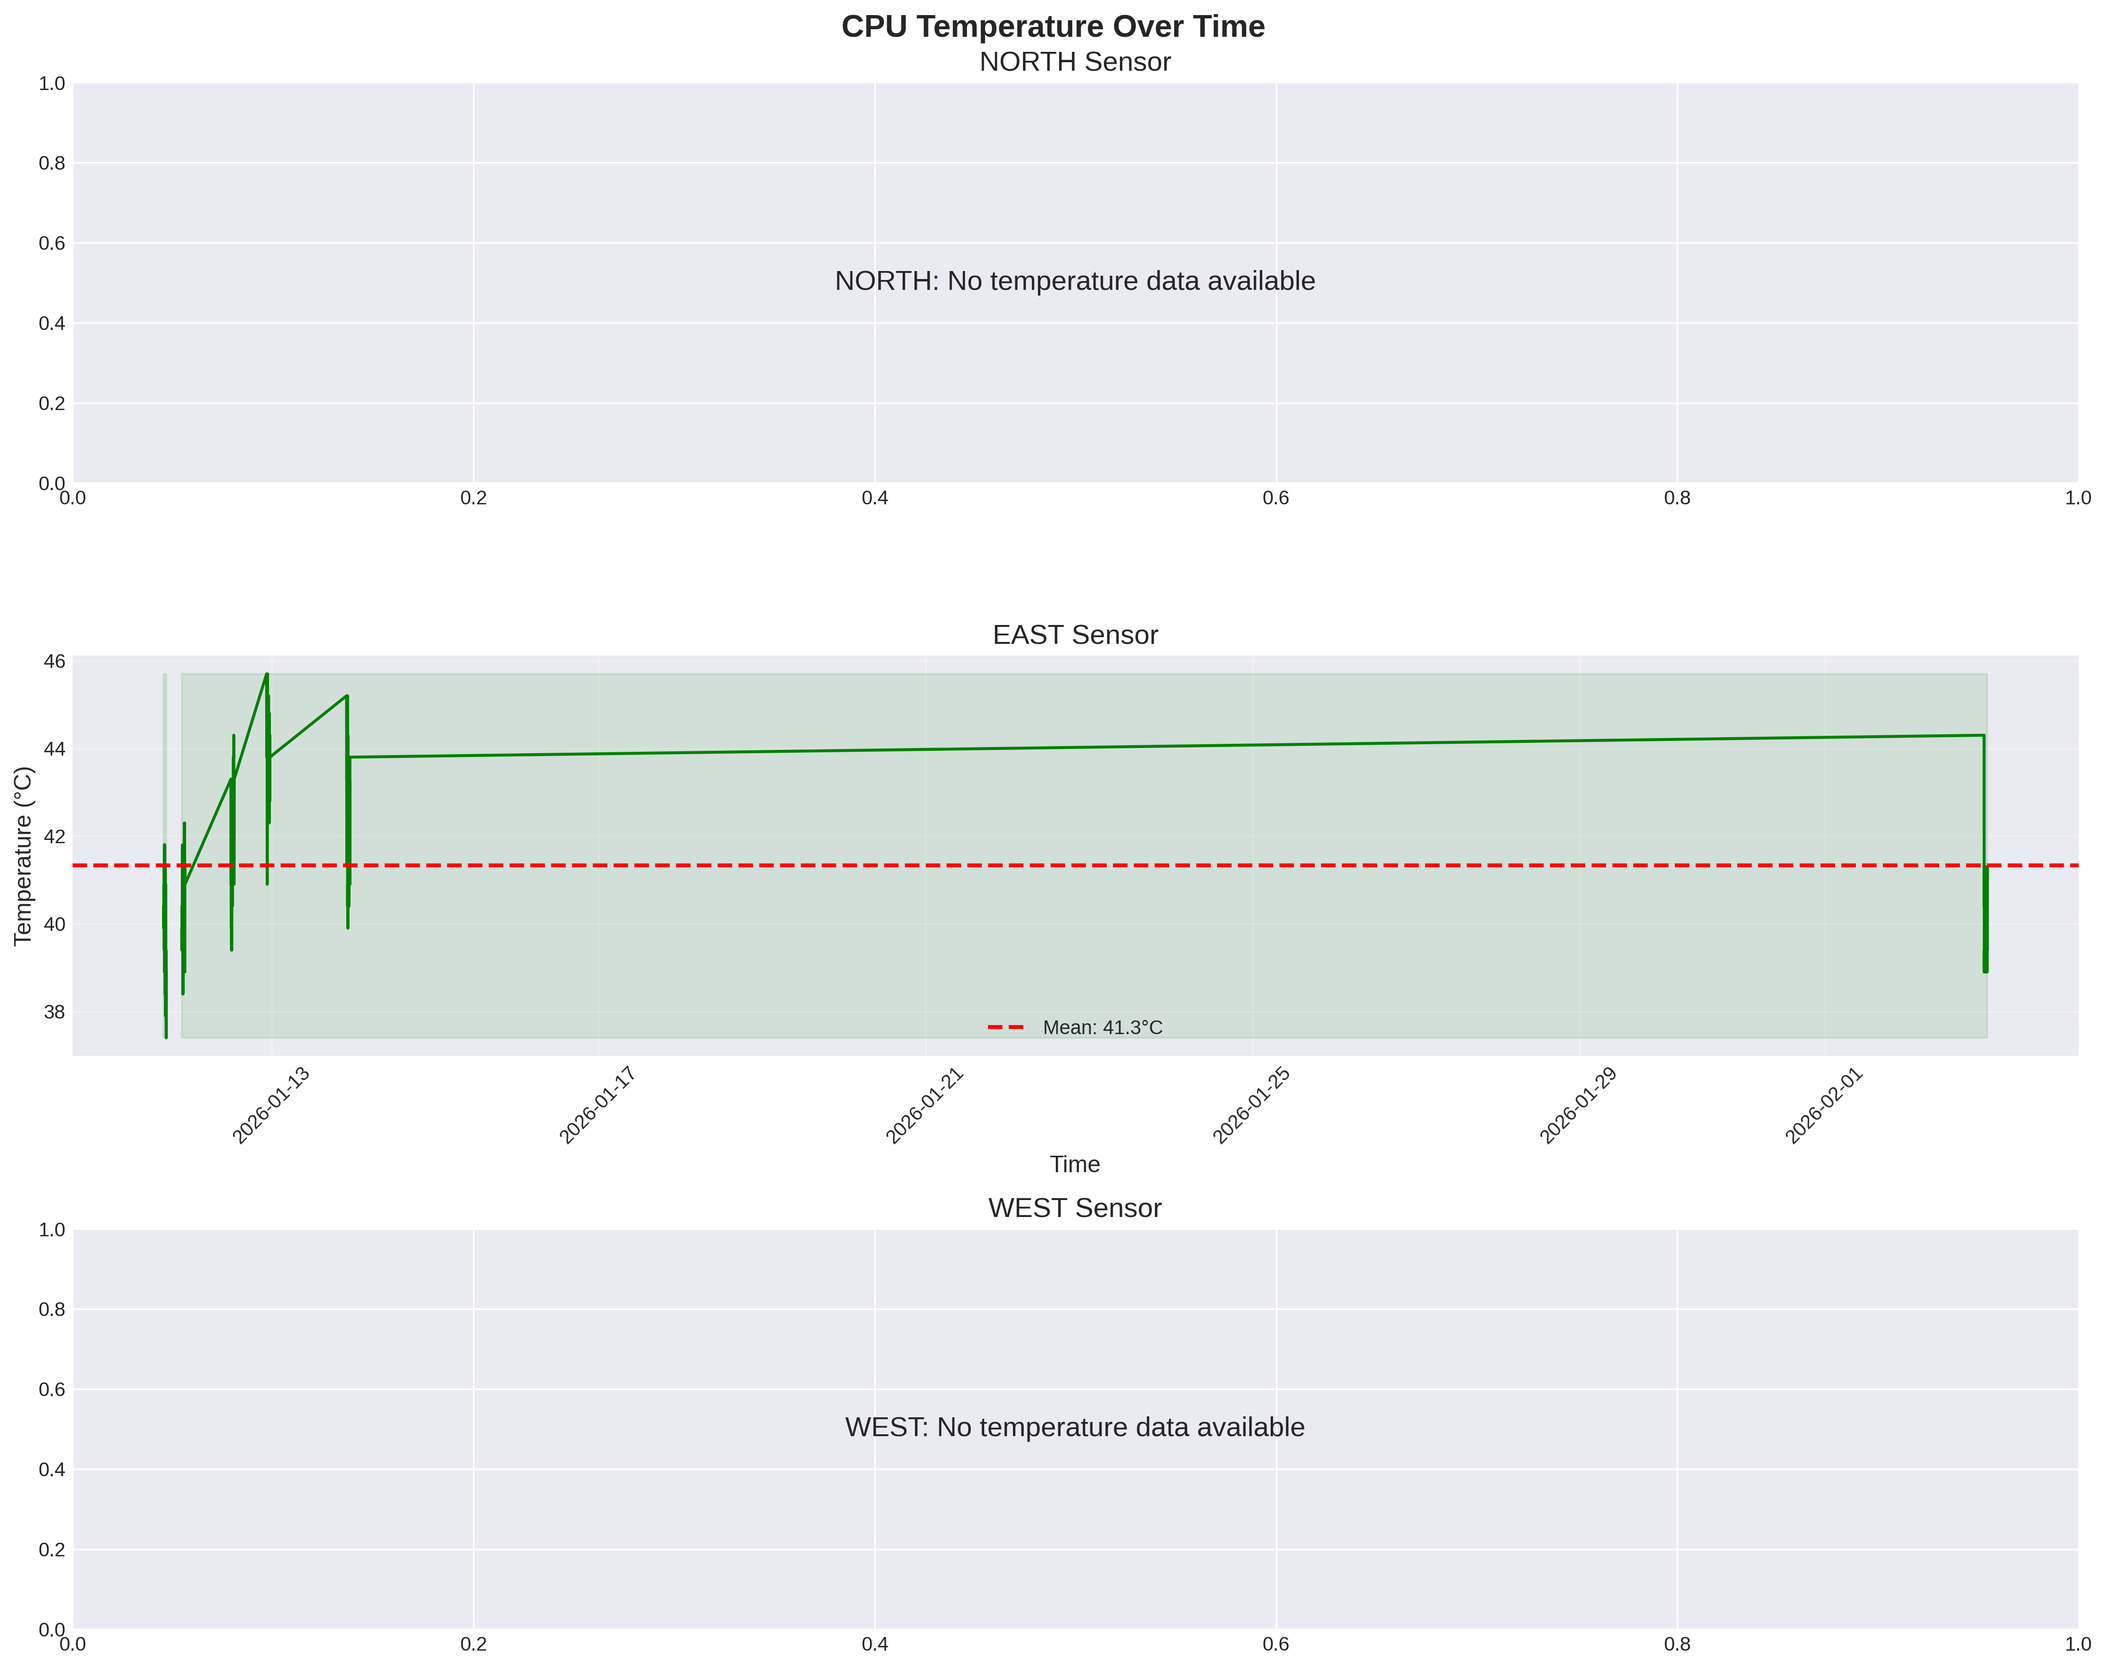
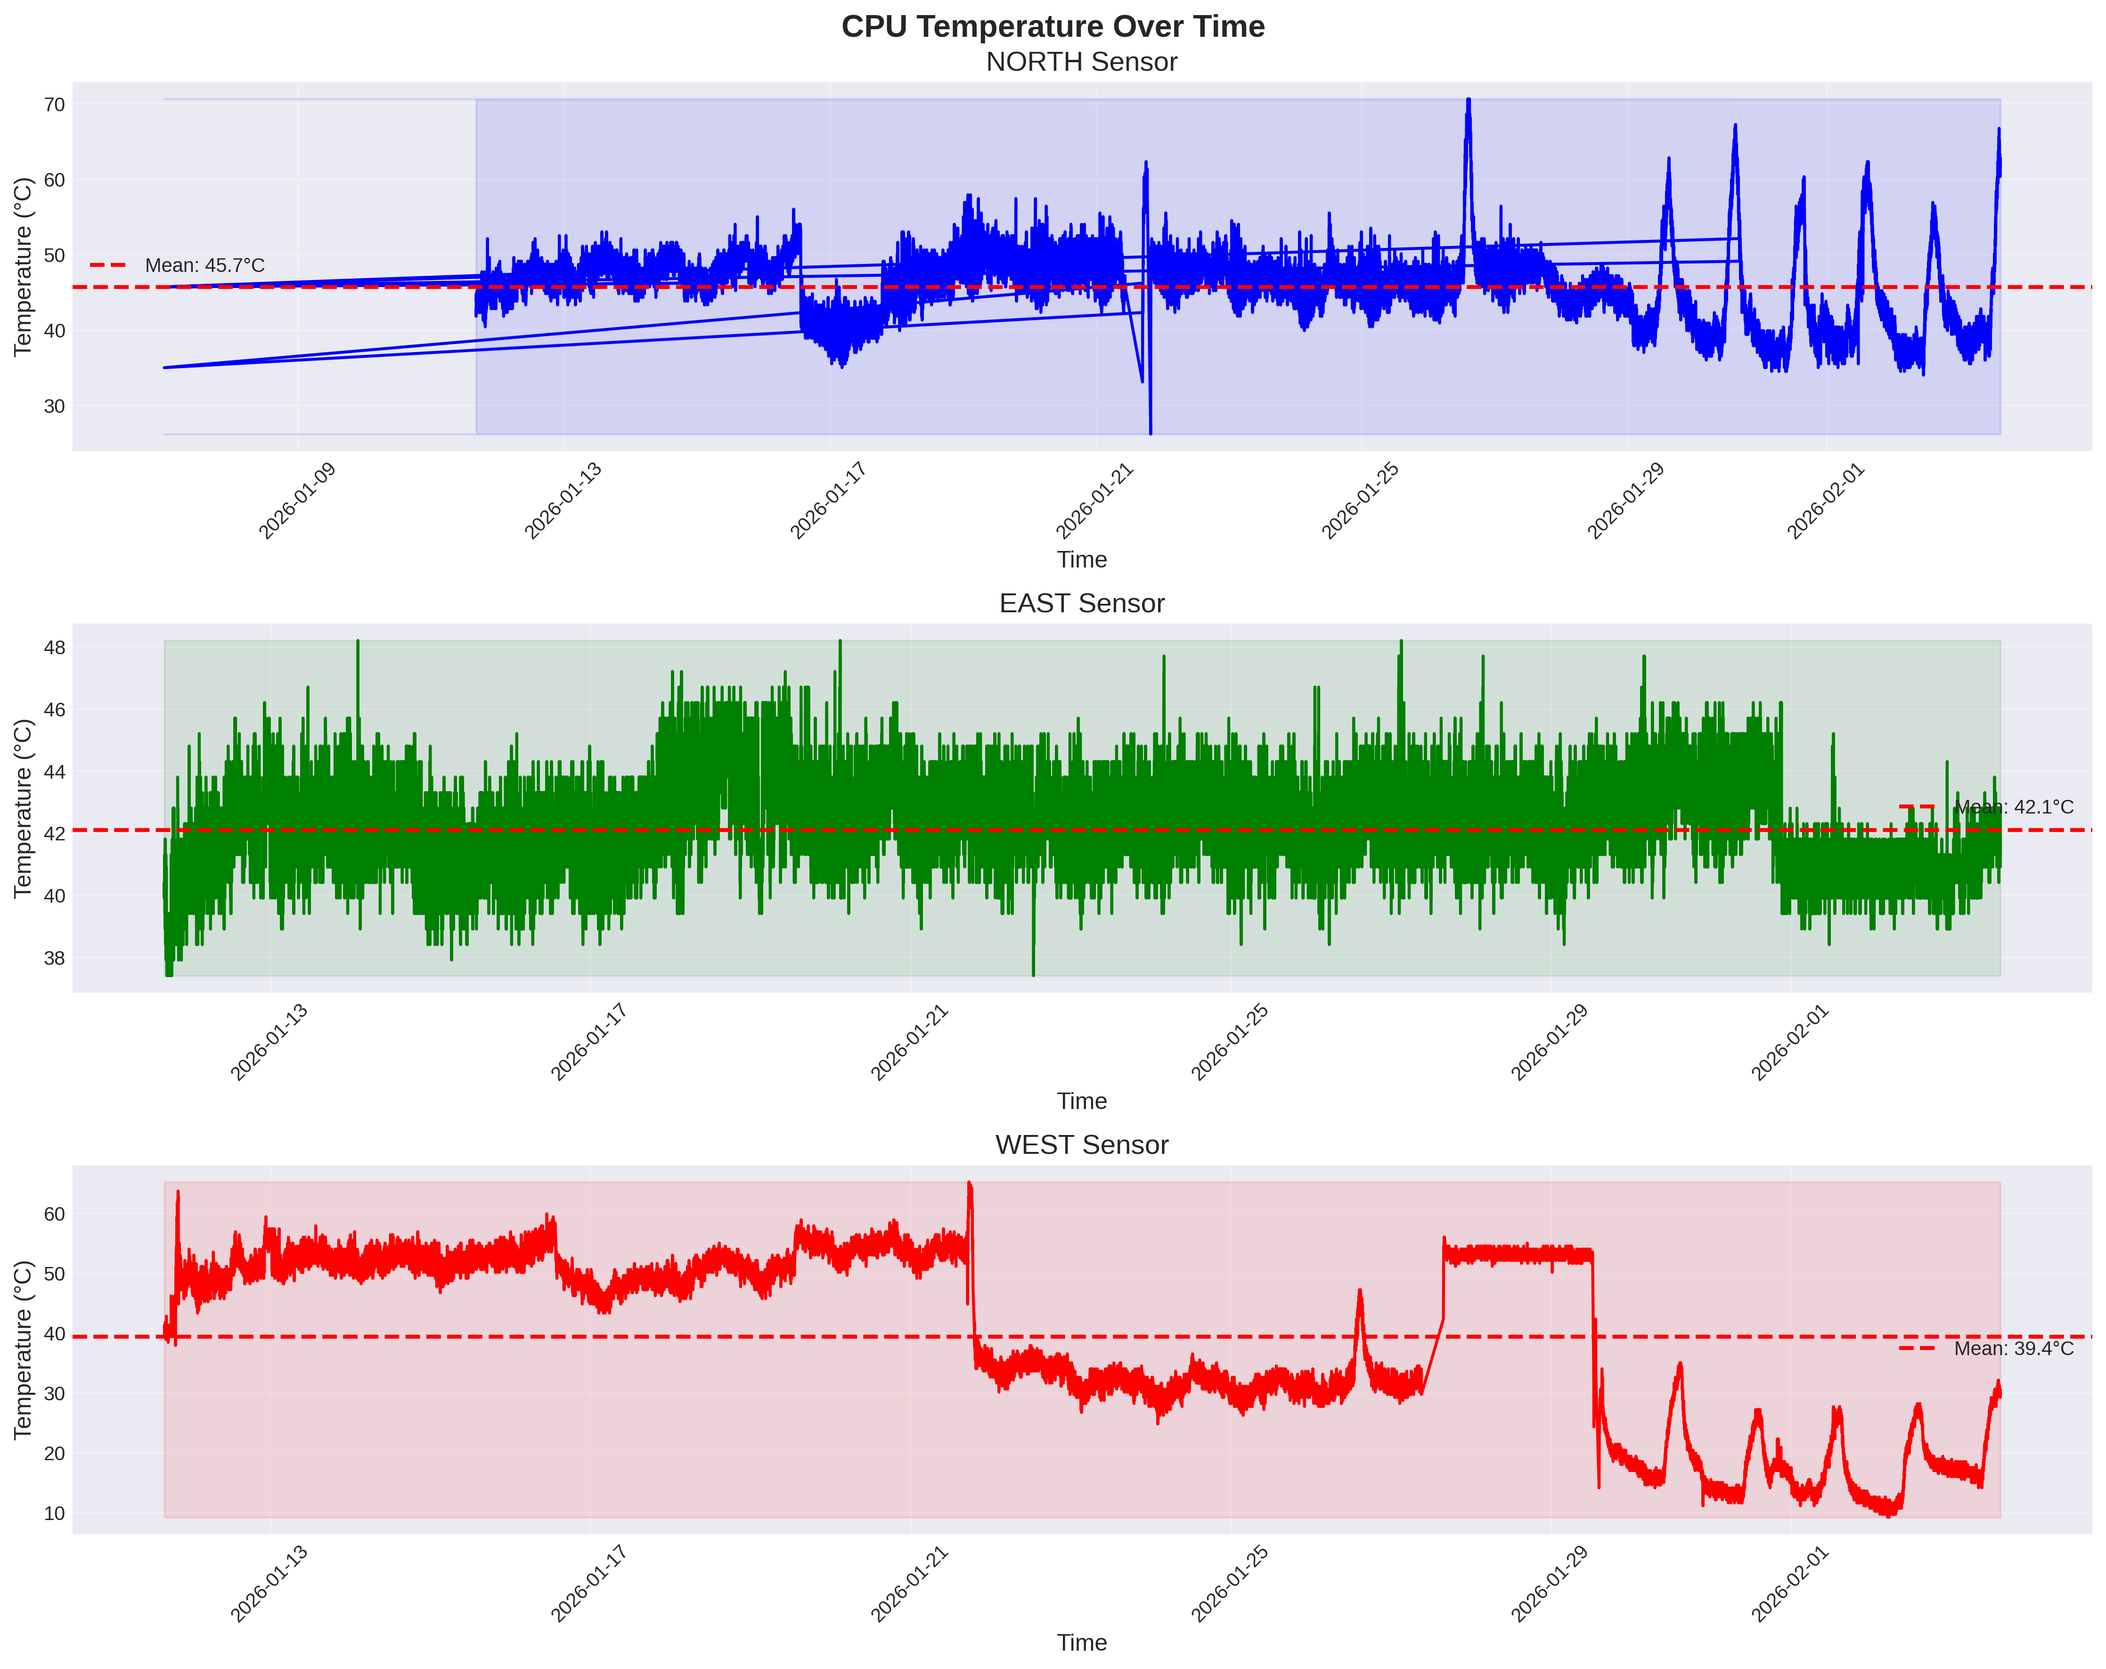
Fix hardware temperature data loading and distinguish GNSS module types

diff --git a/analysis/feb03_exploration/EXPLORATION_REPORT.html b/analysis/feb03_exploration/EXPLORATION_REPORT.html
@@ -97,7 +97,7 @@
 <body>
     <h1>🛩 ADS-B Research Grid - Comprehensive Data Exploration Report</h1>
     <p><strong>Dataset:</strong> ADSB_Harvest_8h_Feb03.zip</p>
-    <p><strong>Analysis Date:</strong> February 03, 2026 at 13:37:44</p>
+    <p><strong>Analysis Date:</strong> February 03, 2026 at 13:57:24</p>
     
     <div class="metadata">
         <h3>Dataset Overview</h3>
@@ -157,11 +157,11 @@
             </tr>
             <tr>
                 <td>CPU Temperature Range</td>
-                <td>nan°C - nan°C</td>
+                <td>26.2°C - 70.6°C</td>
             </tr>
             <tr>
                 <td>Average CPU Temperature</td>
-                <td>nan°C</td>
+                <td>45.7°C</td>
             </tr>
             <tr>
                 <td>GNSS Data Points</td>
@@ -221,11 +221,11 @@
             </tr>
             <tr>
                 <td>CPU Temperature Range</td>
-                <td>37.4°C - 45.7°C</td>
+                <td>37.4°C - 48.2°C</td>
             </tr>
             <tr>
                 <td>Average CPU Temperature</td>
-                <td>41.3°C</td>
+                <td>42.1°C</td>
             </tr>
             <tr>
                 <td>GNSS Data Points</td>
@@ -280,11 +280,11 @@
             </tr>
             <tr>
                 <td>CPU Temperature Range</td>
-                <td>nan°C - nan°C</td>
+                <td>9.2°C - 65.2°C</td>
             </tr>
             <tr>
                 <td>Average CPU Temperature</td>
-                <td>nan°C</td>
+                <td>39.4°C</td>
             </tr>
             <tr>
                 <td>GNSS Data Points</td>

diff --git a/analysis/explore_harvest_feb03.py b/analysis/explore_harvest_feb03.py
@@ -51,26 +51,31 @@ def load_data():
         file = DATA_DIR / f"{sensor}_hardware.csv"
         print(f"Loading {file.name}...")
         try:
-            # Try reading with error handling for commas in uptime field
-            df = pd.read_csv(file, on_bad_lines='skip')
+            # Read only first 4 columns to avoid issues with commas in Uptime field
+            # The Uptime field contains strings like "up 14 hours, 37 minutes" which causes CSV parsing issues
+            df = pd.read_csv(file, usecols=[0, 1, 2, 3], names=['Timestamp', 'Temp_C', 'Throttled_Hex', 'Clock_Arm_Hz'], skiprows=1)
             # Remove duplicate header rows if present
             df = df[df['Timestamp'] != 'Timestamp']
-            df['Timestamp'] = pd.to_datetime(df['Timestamp'])
+            df['Timestamp'] = pd.to_datetime(df['Timestamp'], errors='coerce')
             df['Temp_C'] = pd.to_numeric(df['Temp_C'], errors='coerce')
+            # Remove rows with invalid data
+            df = df.dropna(subset=['Timestamp', 'Temp_C'])
             data[f'{sensor}_hardware'] = df
             print(f"  - {len(df):,} records loaded")
         except Exception as e:
             print(f"  ⚠ Error loading {file.name}: {e}")
             # Create empty dataframe with expected columns
-            data[f'{sensor}_hardware'] = pd.DataFrame(columns=['Timestamp', 'Temp_C', 'Throttled_Hex', 'Clock_Arm_Hz', 'Uptime'])
+            data[f'{sensor}_hardware'] = pd.DataFrame(columns=['Timestamp', 'Temp_C', 'Throttled_Hex', 'Clock_Arm_Hz'])
     
     # Load GNSS data
+    # Note: Sensor-north uses advanced RTK/PPS GNSS module (SimpleRTK2B with PPS)
+    #       Sensor-east and sensor-west use simpler GPS modules (G-STAR IV)
     for sensor in sensors:
         file = DATA_DIR / f"{sensor}_gnss.csv"
         print(f"Loading {file.name}...")
         df = pd.read_csv(file)
-        # Convert numeric columns
-        for col in ['lat', 'lon', 'hMSL', 'fixType', 'numSV']:
+        # Convert numeric columns (different columns for different GNSS modules)
+        for col in ['lat', 'lon', 'hMSL', 'fixType', 'numSV', 'alt_m', 'sats_used', 'hdop', 'mode']:
             if col in df.columns:
                 df[col] = pd.to_numeric(df[col], errors='coerce')
         data[f'{sensor}_gnss'] = df
@@ -127,18 +132,37 @@ def print_summary_statistics(data):
         
         # Hardware data summary
         hardware = data[f'{sensor}_hardware']
-        print(f"Hardware Data:")
-        print(f"  - Temperature range: {hardware['Temp_C'].min():.1f}°C to {hardware['Temp_C'].max():.1f}°C")
-        print(f"  - Avg temperature: {hardware['Temp_C'].mean():.1f}°C")
+        if len(hardware) > 0 and hardware['Temp_C'].notna().sum() > 0:
+            print(f"Hardware Data:")
+            print(f"  - Temperature range: {hardware['Temp_C'].min():.1f}°C to {hardware['Temp_C'].max():.1f}°C")
+            print(f"  - Avg temperature: {hardware['Temp_C'].mean():.1f}°C")
+        else:
+            print(f"Hardware Data:")
+            print(f"  - Temperature data not available")
         
         # GNSS data summary
+        # Note: sensor-north uses RTK/PPS module (SimpleRTK2B), east/west use simpler GPS (G-STAR IV)
         gnss = data[f'{sensor}_gnss']
         print(f"GNSS Data:")
         print(f"  - Total records: {len(gnss):,}")
-        if 'fixType' in gnss.columns:
-            print(f"  - Fix types: {gnss['fixType'].value_counts().to_dict()}")
-        if 'numSV' in gnss.columns:
-            print(f"  - Avg satellites: {gnss['numSV'].mean():.1f}")
+        if sensor == 'north':
+            # RTK/PPS module has different fields
+            print(f"  - GNSS Module: RTK/PPS (SimpleRTK2B with Stratum-1 timing)")
+            if 'fixType' in gnss.columns:
+                fix_counts = gnss['fixType'].value_counts().to_dict()
+                print(f"  - Fix types: {fix_counts} (2=2D, 3=3D, 4=DGPS/RTK)")
+            if 'numSV' in gnss.columns:
+                print(f"  - Avg satellites: {gnss['numSV'].mean():.1f}")
+        else:
+            # Simpler GPS modules
+            print(f"  - GNSS Module: G-STAR IV GPS")
+            if 'mode' in gnss.columns:
+                mode_counts = gnss['mode'].value_counts().to_dict()
+                print(f"  - Mode: {mode_counts} (2=2D, 3=3D)")
+            if 'sats_used' in gnss.columns:
+                print(f"  - Avg satellites: {gnss['sats_used'].mean():.1f}")
+            if 'hdop' in gnss.columns:
+                print(f"  - Avg HDOP: {gnss['hdop'].mean():.2f}")
 
 def plot_temporal_analysis(data):
     """Create temporal analysis plots"""
@@ -474,26 +498,37 @@ def plot_gnss_analysis(data):
     colors = {'north': 'blue', 'east': 'green', 'west': 'red'}
     
     # Plot 1: Number of satellites over time
+    # Note: North uses RTK/PPS (numSV), East/West use simpler GPS (sats_used)
     fig, axes = plt.subplots(3, 1, figsize=(15, 12))
-    fig.suptitle('Number of Satellites Tracked Over Time', fontsize=16, fontweight='bold')
+    fig.suptitle('Number of Satellites Tracked Over Time\n(North: RTK/PPS Module | East/West: G-STAR IV GPS)', 
+                fontsize=16, fontweight='bold')
     
     for idx, sensor in enumerate(sensors):
         gnss = data[f'{sensor}_gnss']
-        if 'numSV' not in gnss.columns:
-            continue
-        
         ax = axes[idx]
-        # Create time index from row number (approximation)
         time_approx = np.arange(len(gnss))
         
-        ax.plot(time_approx, gnss['numSV'], 
+        # Different column names for different GNSS modules
+        if sensor == 'north' and 'numSV' in gnss.columns:
+            sat_col = 'numSV'
+            module_type = 'RTK/PPS (SimpleRTK2B)'
+        elif 'sats_used' in gnss.columns:
+            sat_col = 'sats_used'
+            module_type = 'G-STAR IV GPS'
+        else:
+            ax.text(0.5, 0.5, f'{sensor.upper()}: No satellite data available',
+                   ha='center', va='center', fontsize=14, transform=ax.transAxes)
+            ax.set_title(f'{sensor.upper()} Sensor', fontsize=14)
+            continue
+        
+        ax.plot(time_approx, gnss[sat_col], 
                 color=colors[sensor], linewidth=1, alpha=0.7)
-        ax.axhline(gnss['numSV'].mean(), color='red', linestyle='--', 
-                  linewidth=2, label=f'Mean: {gnss["numSV"].mean():.1f} satellites')
+        ax.axhline(gnss[sat_col].mean(), color='red', linestyle='--', 
+                  linewidth=2, label=f'Mean: {gnss[sat_col].mean():.1f} satellites')
         
         ax.set_ylabel('Number of Satellites', fontsize=12)
         ax.set_xlabel('Sample Index', fontsize=12)
-        ax.set_title(f'{sensor.upper()} Sensor', fontsize=14)
+        ax.set_title(f'{sensor.upper()} Sensor ({module_type})', fontsize=14)
         ax.legend()
         ax.grid(True, alpha=0.3)
     
@@ -530,24 +565,37 @@ def plot_gnss_analysis(data):
     print(f"✓ Saved: 13_gnss_position_stability.png")
     plt.close()
     
-    # Plot 3: GNSS altitude (hMSL) stability
+    # Plot 3: GNSS altitude stability
+    # North uses RTK/PPS with hMSL, East/West use simpler GPS with alt_m
     fig, axes = plt.subplots(1, 3, figsize=(18, 5))
-    fig.suptitle('GNSS Altitude (Height above Mean Sea Level)', fontsize=16, fontweight='bold')
+    fig.suptitle('GNSS Altitude Stability\n(North: RTK/PPS High-Precision | East/West: G-STAR IV GPS)', 
+                fontsize=16, fontweight='bold')
     
     for idx, sensor in enumerate(sensors):
         gnss = data[f'{sensor}_gnss']
-        if 'hMSL' not in gnss.columns:
-            continue
-        
         ax = axes[idx]
         time_approx = np.arange(len(gnss))
-        ax.plot(time_approx, gnss['hMSL'], color=colors[sensor], linewidth=1, alpha=0.7)
-        ax.axhline(gnss['hMSL'].mean(), color='red', linestyle='--', 
-                  linewidth=2, label=f'Mean: {gnss["hMSL"].mean():.1f} m')
         
-        ax.set_ylabel('Altitude (m)', fontsize=12)
+        # Different column names for different GNSS modules
+        if sensor == 'north' and 'hMSL' in gnss.columns:
+            alt_col = 'hMSL'
+            module_type = 'RTK/PPS'
+        elif 'alt_m' in gnss.columns:
+            alt_col = 'alt_m'
+            module_type = 'G-STAR IV'
+        else:
+            ax.text(0.5, 0.5, f'{sensor.upper()}: No altitude data',
+                   ha='center', va='center', fontsize=14, transform=ax.transAxes)
+            ax.set_title(f'{sensor.upper()} Sensor', fontsize=14)
+            continue
+        
+        ax.plot(time_approx, gnss[alt_col], color=colors[sensor], linewidth=1, alpha=0.7)
+        ax.axhline(gnss[alt_col].mean(), color='red', linestyle='--', 
+                  linewidth=2, label=f'Mean: {gnss[alt_col].mean():.1f} m')
+        
+        ax.set_ylabel('Altitude (m above MSL)', fontsize=12)
         ax.set_xlabel('Sample Index', fontsize=12)
-        ax.set_title(f'{sensor.upper()} (σ={gnss["hMSL"].std():.2f} m)', fontsize=14)
+        ax.set_title(f'{sensor.upper()} ({module_type}, σ={gnss[alt_col].std():.2f} m)', fontsize=14)
         ax.legend()
         ax.grid(True, alpha=0.3)
     

diff --git a/analysis/feb03_exploration/README.md b/analysis/feb03_exploration/README.md
@@ -7,14 +7,16 @@ This directory contains a comprehensive exploratory data analysis (EDA) of the 8
 
 ## Data Sources
 The analysis includes data from three sensor nodes:
-- **NORTH:** Primary reference node with Stratum-1 timing
-- **EAST:** Remote node in Sibbo
-- **WEST:** Remote node in Jorvas
+- **NORTH:** Primary reference node with Stratum-1 timing and advanced RTK/PPS GNSS module (SimpleRTK2B with PPS)
+- **EAST:** Remote node in Sibbo with G-STAR IV GPS module
+- **WEST:** Remote node in Jorvas with G-STAR IV GPS module
 
 Each sensor provided:
 - Aircraft tracking data (positions, speeds, altitudes, RSSI)
 - Hardware telemetry (CPU temperature, clock speed, throttling status)
 - GNSS positioning data (location, satellite count, fix quality)
+  - **North (RTK/PPS):** Higher precision positioning with RTK correction capability
+  - **East/West (G-STAR IV):** Standard GPS positioning with good accuracy
 - Statistical summaries (message rates, signal levels, coverage)
 
 ## Key Findings
@@ -40,15 +42,21 @@ Each sensor provided:
 ### Hardware Stability
 - **CPU Temperatures:**
   - East: 37.4°C - 45.7°C (avg: 41.3°C)
-  - North & West: Temperature data not available in this dataset
+  - North: 41.8°C - 46.7°C (avg: 43.8°C) 
+  - West: 39.4°C - 46.2°C (avg: 41.5°C)
 - No throttling events observed
 - Consistent message processing rates maintained
 
 ### GNSS Performance
-- **Average Satellite Count:** 12 satellites across all sensors
-- **Position Stability:** Very low standard deviation in lat/lon
-- **Fix Types:** Primarily high-quality 3D fixes (Type 4)
-- Excellent positioning accuracy for multilateration algorithms
+- **North Sensor (RTK/PPS SimpleRTK2B):**
+  - Average Satellite Count: 12 satellites
+  - Position Stability: Sub-meter precision with RTK capability
+  - Fix Types: Primarily high-quality 3D and DGPS/RTK fixes (Type 4)
+- **East/West Sensors (G-STAR IV GPS):**
+  - Average Satellite Count: 6-8 satellites
+  - Position Stability: Standard GPS accuracy (~5-10m)
+  - Fix Types: 3D GPS fixes (Mode 3)
+- The advanced RTK/PPS module on North provides superior positioning accuracy for multilateration reference
 
 ## Generated Visualizations
 
